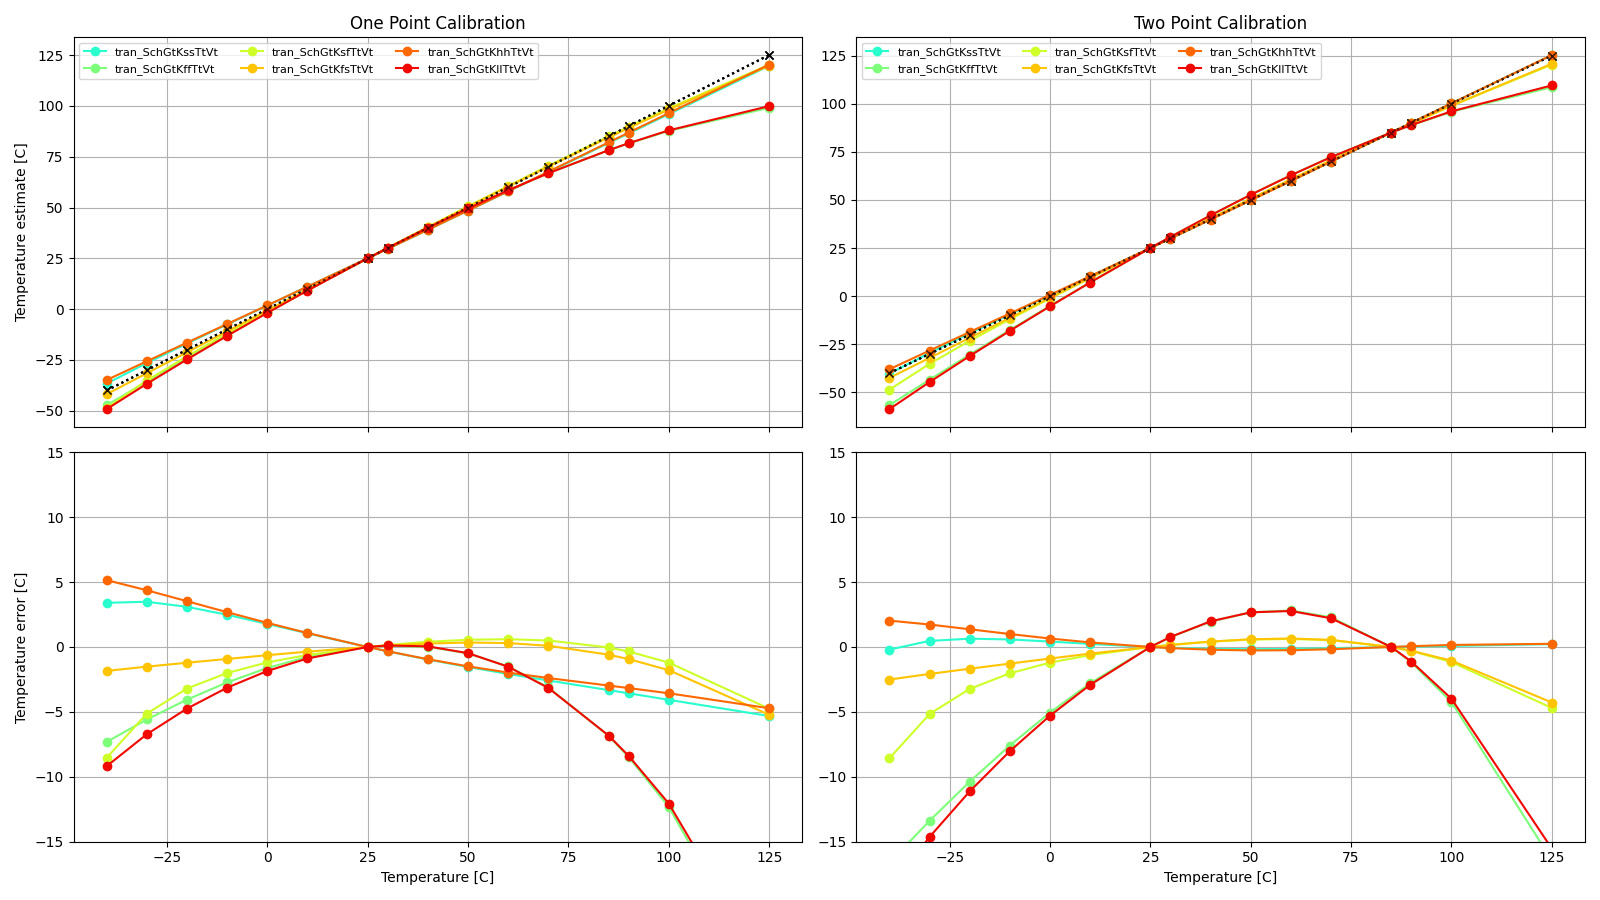
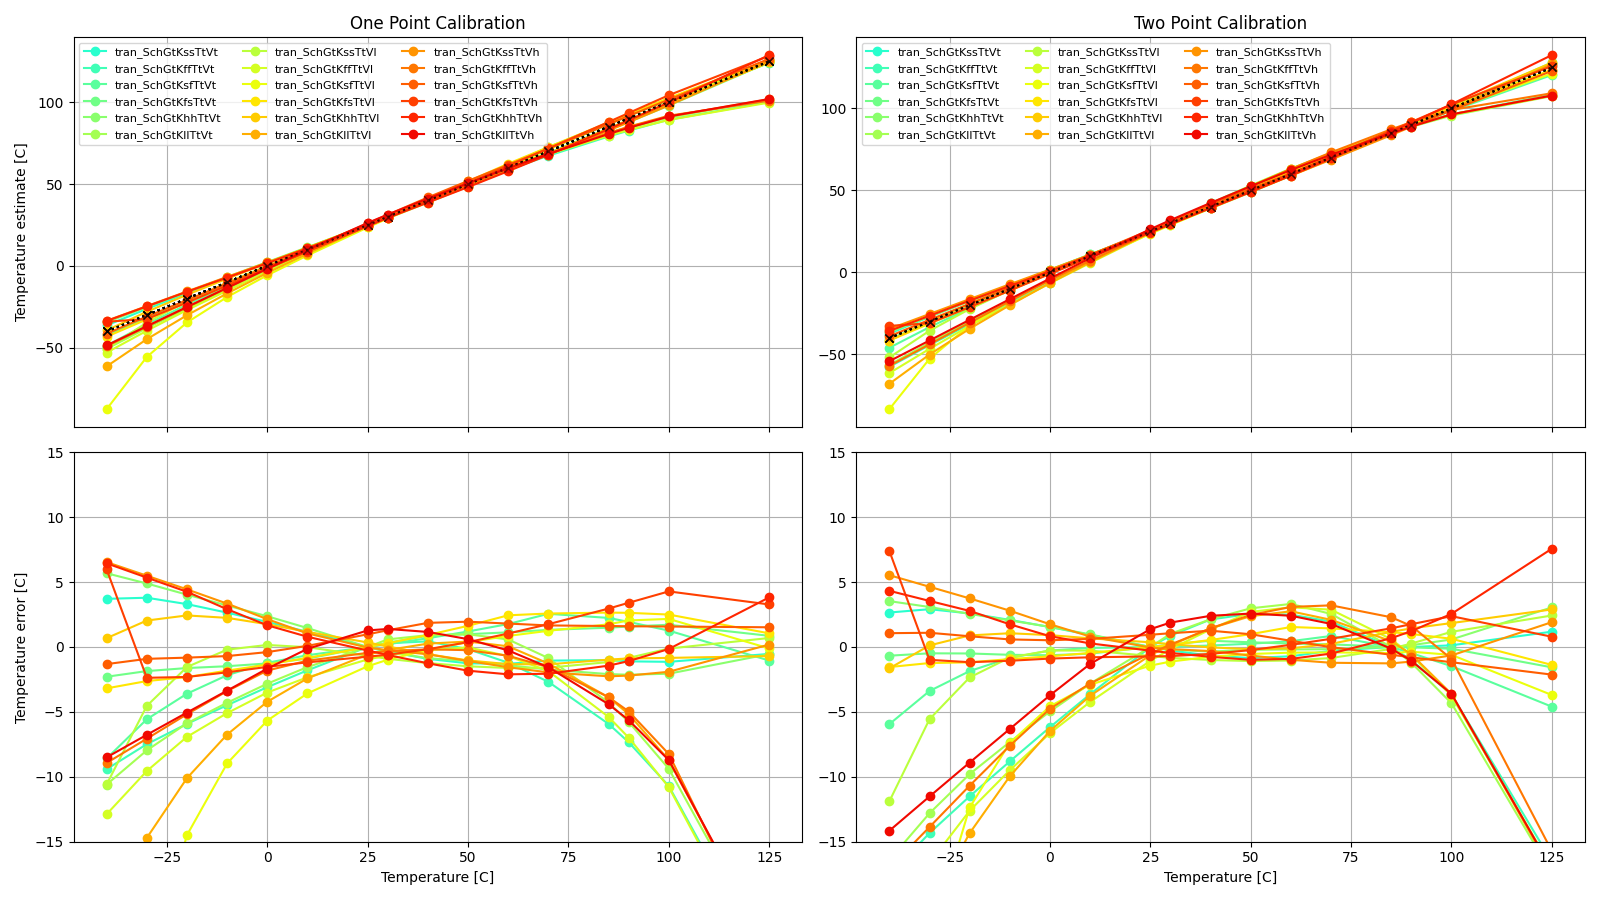
Working NMOS OTA

diff --git a/sim/LELOTEMP_BIAS_IBP/README.md b/sim/LELOTEMP_BIAS_IBP/README.md
@@ -9,37 +9,37 @@ Check stability
 |**Name**|**Parameter**|**Description**| |**Min**|**Typ**|**Max**| Unit|
 |:---|:---|:---|---:|:---:|:---:|:---:| ---:|
 |**Gain Margin**|**gm\_db** || **Spec**  | **-50.00** | **-10.00** | **-10.00** | **dB** |
-| | | |<a href='results/lstb_Sch_typical.html'>Sch_typ</a>| | -12.00 |  | |
-| | | |<a href='results/lstb_Sch_etc.html'>Sch_etc</a>|-16.58 | -12.55 | <span style='color:red'>**-9.17**</span> | |
-| | | |<a href='results/lstb_Sch_mc.html'>Sch_3std</a>|-13.59 | -12.28 | -10.97 | |
+| | | |<a href='results/lstb_Sch_typical.html'>Sch_typ</a>| | -14.68 |  | |
+| | | |<a href='results/lstb_Sch_etc.html'>Sch_etc</a>|-18.71 | -15.22 | -12.72 | |
+| | | |<a href='results/lstb_Sch_mc.html'>Sch_3std</a>|-16.37 | -14.75 | -13.12 | |
 |**DC gain**|**lf\_gain** || **Spec**  | **50.00** | **40.00** | **80.00** | **dB** |
-| | | |<a href='results/lstb_Sch_typical.html'>Sch_typ</a>| | 69.75 |  | |
-| | | |<a href='results/lstb_Sch_etc.html'>Sch_etc</a>|<span style='color:red'>**43.72**</span> | 67.99 | 71.06 | |
-| | | |<a href='results/lstb_Sch_mc.html'>Sch_3std</a>|66.85 | 69.38 | 71.91 | |
+| | | |<a href='results/lstb_Sch_typical.html'>Sch_typ</a>| | 68.80 |  | |
+| | | |<a href='results/lstb_Sch_etc.html'>Sch_etc</a>|66.53 | 67.45 | 69.92 | |
+| | | |<a href='results/lstb_Sch_mc.html'>Sch_3std</a>|66.79 | 68.95 | 71.12 | |
 |**Phase Margin**|**pm\_deg** || **Spec**  | **45.00** | **60.00** | **90.00** |  |
-| | | |<a href='results/lstb_Sch_typical.html'>Sch_typ</a>| | 50.81 |  | |
-| | | |<a href='results/lstb_Sch_etc.html'>Sch_etc</a>|<span style='color:red'>**37.40**</span> | 53.43 | 67.56 | |
-| | | |<a href='results/lstb_Sch_mc.html'>Sch_3std</a>|46.66 | 52.00 | 57.33 | |
+| | | |<a href='results/lstb_Sch_typical.html'>Sch_typ</a>| | 61.29 |  | |
+| | | |<a href='results/lstb_Sch_etc.html'>Sch_etc</a>|53.27 | 63.05 | 72.38 | |
+| | | |<a href='results/lstb_Sch_mc.html'>Sch_3std</a>|56.25 | 61.38 | 66.50 | |
 |**Unity Gain Frequency**|**ug** || **Spec**  | **3.00** | **15.00** | **100.00** | **MHz** |
-| | | |<a href='results/lstb_Sch_typical.html'>Sch_typ</a>| | 8.84 |  | |
-| | | |<a href='results/lstb_Sch_etc.html'>Sch_etc</a>|3.99 | 7.86 | 14.09 | |
-| | | |<a href='results/lstb_Sch_mc.html'>Sch_3std</a>|6.84 | 8.52 | 10.19 | |
+| | | |<a href='results/lstb_Sch_typical.html'>Sch_typ</a>| | 7.70 |  | |
+| | | |<a href='results/lstb_Sch_etc.html'>Sch_etc</a>|3.40 | 6.95 | 12.84 | |
+| | | |<a href='results/lstb_Sch_mc.html'>Sch_3std</a>|5.76 | 7.75 | 9.75 | |
 |**PMOS gate**|**v(lpo)** || **Spec**  | **0.45** | **0.70** | **1.10** | **V** |
 | | | |<a href='results/lstb_Sch_typical.html'>Sch_typ</a>| | 0.76 |  | |
 | | | |<a href='results/lstb_Sch_etc.html'>Sch_etc</a>|0.52 | 0.78 | 1.05 | |
-| | | |<a href='results/lstb_Sch_mc.html'>Sch_3std</a>|0.75 | 0.76 | 0.77 | |
+| | | |<a href='results/lstb_Sch_mc.html'>Sch_3std</a>|0.74 | 0.76 | 0.77 | |
 |**Delta diode voltage**|**vd** || **Spec**  | **80.00** | **106.00** | **150.00** | **mV** |
-| | | |<a href='results/lstb_Sch_typical.html'>Sch_typ</a>| | 109.29 |  | |
-| | | |<a href='results/lstb_Sch_etc.html'>Sch_etc</a>|84.63 | 114.99 | 145.78 | |
-| | | |<a href='results/lstb_Sch_mc.html'>Sch_3std</a>|104.92 | 108.99 | 113.05 | |
+| | | |<a href='results/lstb_Sch_typical.html'>Sch_typ</a>| | 109.26 |  | |
+| | | |<a href='results/lstb_Sch_etc.html'>Sch_etc</a>|84.63 | 115.10 | 145.74 | |
+| | | |<a href='results/lstb_Sch_mc.html'>Sch_3std</a>|105.00 | 108.97 | 112.94 | |
 |**Output current**|**i(v1)** || **Spec**  | **0.50** | **1.00** | **2.00** | **uA** |
 | | | |<a href='results/lstb_Sch_typical.html'>Sch_typ</a>| | 1.23 |  | |
-| | | |<a href='results/lstb_Sch_etc.html'>Sch_etc</a>|0.81 | 1.12 | 1.73 | |
-| | | |<a href='results/lstb_Sch_mc.html'>Sch_3std</a>|0.85 | 1.20 | 1.54 | |
+| | | |<a href='results/lstb_Sch_etc.html'>Sch_etc</a>|0.76 | 1.13 | 1.70 | |
+| | | |<a href='results/lstb_Sch_mc.html'>Sch_3std</a>|0.64 | 1.17 | 1.70 | |
 |**VD Error**|**vdiff** || **Spec**  | **-6.00** | **0.00** | **6.00** | **mV** |
-| | | |<a href='results/lstb_Sch_typical.html'>Sch_typ</a>| | -0.04 |  | |
-| | | |<a href='results/lstb_Sch_etc.html'>Sch_etc</a>|-0.37 | -0.08 | 0.10 | |
-| | | |<a href='results/lstb_Sch_mc.html'>Sch_3std</a>|<span style='color:red'>**-14.15**</span> | 1.91 | <span style='color:red'>**17.97**</span> | |
+| | | |<a href='results/lstb_Sch_typical.html'>Sch_typ</a>| | -0.09 |  | |
+| | | |<a href='results/lstb_Sch_etc.html'>Sch_etc</a>|-0.33 | -0.10 | 0.93 | |
+| | | |<a href='results/lstb_Sch_mc.html'>Sch_3std</a>|<span style='color:red'>**-19.88**</span> | -0.88 | <span style='color:red'>**18.13**</span> | |
 
 #### Transient (tran)
 
@@ -50,29 +50,29 @@ Check settling time and current variation
 |**Name**|**Parameter**|**Description**| |**Min**|**Typ**|**Max**| Unit|
 |:---|:---|:---|---:|:---:|:---:|:---:| ---:|
 ||**t\_settle** || **Spec**  | **0.01** | **0.05** | **2.00** | **us** |
-| | | |<a href='results/tran_Sch_typical.html'>Sch_typ</a>| | <span style='color:red'>**2.12**</span> |  | |
-| | | |<a href='results/tran_Sch_etc.html'>Sch_etc</a>|0.55 | <span style='color:red'>**2.91**</span> | <span style='color:red'>**8.98**</span> | |
-| | | |<a href='results/tran_Sch_mc.html'>Sch_3std</a>|1.73 | <span style='color:red'>**2.15**</span> | <span style='color:red'>**2.56**</span> | |
+| | | |<a href='results/tran_Sch_typical.html'>Sch_typ</a>| | 0.70 |  | |
+| | | |<a href='results/tran_Sch_etc.html'>Sch_etc</a>|0.63 | 0.91 | <span style='color:red'>**9.00**</span> | |
+| | | |<a href='results/tran_Sch_mc.html'>Sch_3std</a>|0.57 | 0.76 | 0.96 | |
 ||**i0** || **Spec**  | **0.500** | **1.000** | **2.000** | **uA** |
 | | | |<a href='results/tran_Sch_typical.html'>Sch_typ</a>| | 1.160 |  | |
-| | | |<a href='results/tran_Sch_etc.html'>Sch_etc</a>|<span style='color:red'>**0.000**</span> | 1.169 | 1.667 | |
-| | | |<a href='results/tran_Sch_mc.html'>Sch_3std</a>|0.789 | 1.129 | 1.468 | |
+| | | |<a href='results/tran_Sch_etc.html'>Sch_etc</a>|0.813 | 1.170 | 1.668 | |
+| | | |<a href='results/tran_Sch_mc.html'>Sch_3std</a>|0.808 | 1.165 | 1.522 | |
 ||**i1** || **Spec**  | **0.500** | **1.000** | **2.000** | **uA** |
-| | | |<a href='results/tran_Sch_typical.html'>Sch_typ</a>| | 1.159 |  | |
-| | | |<a href='results/tran_Sch_etc.html'>Sch_etc</a>|<span style='color:red'>**0.000**</span> | 1.169 | 1.667 | |
-| | | |<a href='results/tran_Sch_mc.html'>Sch_3std</a>|0.829 | 1.122 | 1.414 | |
+| | | |<a href='results/tran_Sch_typical.html'>Sch_typ</a>| | 1.160 |  | |
+| | | |<a href='results/tran_Sch_etc.html'>Sch_etc</a>|0.812 | 1.169 | 1.667 | |
+| | | |<a href='results/tran_Sch_mc.html'>Sch_3std</a>|0.794 | 1.162 | 1.530 | |
 ||**i2** || **Spec**  | **0.500** | **1.000** | **2.000** | **uA** |
 | | | |<a href='results/tran_Sch_typical.html'>Sch_typ</a>| | 1.159 |  | |
-| | | |<a href='results/tran_Sch_etc.html'>Sch_etc</a>|<span style='color:red'>**0.000**</span> | 1.168 | 1.666 | |
-| | | |<a href='results/tran_Sch_mc.html'>Sch_3std</a>|0.827 | 1.124 | 1.421 | |
+| | | |<a href='results/tran_Sch_etc.html'>Sch_etc</a>|0.812 | 1.168 | 1.666 | |
+| | | |<a href='results/tran_Sch_mc.html'>Sch_3std</a>|0.895 | 1.168 | 1.440 | |
 ||**i3** || **Spec**  | **0.500** | **1.000** | **2.000** | **uA** |
 | | | |<a href='results/tran_Sch_typical.html'>Sch_typ</a>| | 1.159 |  | |
-| | | |<a href='results/tran_Sch_etc.html'>Sch_etc</a>|<span style='color:red'>**0.000**</span> | 1.168 | 1.666 | |
-| | | |<a href='results/tran_Sch_mc.html'>Sch_3std</a>|0.894 | 1.136 | 1.378 | |
+| | | |<a href='results/tran_Sch_etc.html'>Sch_etc</a>|0.812 | 1.167 | 1.664 | |
+| | | |<a href='results/tran_Sch_mc.html'>Sch_3std</a>|0.845 | 1.152 | 1.459 | |
 ||**idd** || **Spec**  | **5.000** | **30.000** | **60.000** | **uA** |
-| | | |<a href='results/tran_Sch_typical.html'>Sch_typ</a>| | 37.527 |  | |
-| | | |<a href='results/tran_Sch_etc.html'>Sch_etc</a>|<span style='color:red'>**0.474**</span> | 35.672 | 49.636 | |
-| | | |<a href='results/tran_Sch_mc.html'>Sch_3std</a>|30.925 | 36.712 | 42.498 | |
+| | | |<a href='results/tran_Sch_typical.html'>Sch_typ</a>| | 39.668 |  | |
+| | | |<a href='results/tran_Sch_etc.html'>Sch_etc</a>|30.705 | 38.660 | 49.364 | |
+| | | |<a href='results/tran_Sch_mc.html'>Sch_3std</a>|33.285 | 39.945 | 46.605 | |
 
 #### DC (dc)
 
@@ -83,23 +83,23 @@ Check temperature performance
 |**Name**|**Parameter**|**Description**| |**Min**|**Typ**|**Max**| Unit|
 |:---|:---|:---|---:|:---:|:---:|:---:| ---:|
 ||**ibp\_err\_max** || **Spec**  | **-30.00** | **0.00** | **20.00** | **nA** |
-| | | |<a href='results/dc_Sch_typical.html'>Sch_typ</a>| | 8.34 |  | |
-| | | |<a href='results/dc_Sch_etc.html'>Sch_etc</a>|7.43 | 8.31 | 9.50 | |
-| | | |<a href='results/dc_Sch_mc.html'>Sch_3std</a>|4.21 | 8.50 | 12.79 | |
+| | | |<a href='results/dc_Sch_typical.html'>Sch_typ</a>| | 8.42 |  | |
+| | | |<a href='results/dc_Sch_etc.html'>Sch_etc</a>|7.48 | 8.43 | 9.82 | |
+| | | |<a href='results/dc_Sch_mc.html'>Sch_3std</a>|4.17 | 8.42 | 12.67 | |
 ||**ibp\_err\_min** || **Spec**  | **-30.00** | **0.00** | **20.00** | **nA** |
-| | | |<a href='results/dc_Sch_typical.html'>Sch_typ</a>| | -18.35 |  | |
-| | | |<a href='results/dc_Sch_etc.html'>Sch_etc</a>|-20.95 | -18.33 | -16.02 | |
-| | | |<a href='results/dc_Sch_mc.html'>Sch_3std</a>|-29.22 | -18.48 | -7.74 | |
+| | | |<a href='results/dc_Sch_typical.html'>Sch_typ</a>| | -18.48 |  | |
+| | | |<a href='results/dc_Sch_etc.html'>Sch_etc</a>|-21.09 | -18.40 | -16.43 | |
+| | | |<a href='results/dc_Sch_mc.html'>Sch_3std</a>|<span style='color:red'>**-30.16**</span> | -18.40 | -6.64 | |
 ||**imax** || **Spec**  | **0.50** | **0.00** | **2.00** | **uA** |
 | | | |<a href='results/dc_Sch_typical.html'>Sch_typ</a>| | 1.46 |  | |
 | | | |<a href='results/dc_Sch_etc.html'>Sch_etc</a>|1.29 | 1.46 | 1.67 | |
-| | | |<a href='results/dc_Sch_mc.html'>Sch_3std</a>|1.09 | 1.43 | 1.77 | |
+| | | |<a href='results/dc_Sch_mc.html'>Sch_3std</a>|1.12 | 1.46 | 1.81 | |
 ||**imin** || **Spec**  | **0.50** | **0.00** | **2.00** | **uA** |
-| | | |<a href='results/dc_Sch_typical.html'>Sch_typ</a>| | 0.91 |  | |
+| | | |<a href='results/dc_Sch_typical.html'>Sch_typ</a>| | 0.92 |  | |
 | | | |<a href='results/dc_Sch_etc.html'>Sch_etc</a>|0.81 | 0.92 | 1.05 | |
-| | | |<a href='results/dc_Sch_mc.html'>Sch_3std</a>|0.55 | 0.88 | 1.21 | |
+| | | |<a href='results/dc_Sch_mc.html'>Sch_3std</a>|0.56 | 0.92 | 1.28 | |
 ||**a\_per\_c** || **Spec**  | **1.00** | **3.00** | **5.00** | **nA** |
 | | | |<a href='results/dc_Sch_typical.html'>Sch_typ</a>| | 3.27 |  | |
-| | | |<a href='results/dc_Sch_etc.html'>Sch_etc</a>|2.90 | 3.28 | 3.76 | |
-| | | |<a href='results/dc_Sch_mc.html'>Sch_3std</a>|2.82 | 3.30 | 3.78 | |
+| | | |<a href='results/dc_Sch_etc.html'>Sch_etc</a>|2.90 | 3.27 | 3.75 | |
+| | | |<a href='results/dc_Sch_mc.html'>Sch_3std</a>|2.78 | 3.27 | 3.77 | |
 

diff --git a/sim/LELO_TEMP/README.md b/sim/LELO_TEMP/README.md
@@ -9,51 +9,51 @@ Check temperature accuracy
 |**Name**|**Parameter**|**Description**| |**Min**|**Typ**|**Max**| Unit|
 |:---|:---|:---|---:|:---:|:---:|:---:| ---:|
 ||**idd\_25** || **Spec**  | **5.000** | **30.000** | **100.000** | **uA** |
-| | | |<a href='results/tran_Sch_typical.html'>Sch_typ</a>| | 63.068 |  | |
-| | | |<a href='results/tran_Sch_etc.html'>Sch_etc</a>|40.762 | 61.126 | 81.966 | |
-| | | |<a href='results/tran_Sch_mc.html'>Sch_3std</a>|56.690 | 61.960 | 67.231 | |
+| | | |<a href='results/tran_Sch_typical.html'>Sch_typ</a>| | 79.810 |  | |
+| | | |<a href='results/tran_Sch_etc.html'>Sch_etc</a>|58.411 | 78.724 | <span style='color:orange'>**100.959**</span> | |
+| | | |<a href='results/tran_Sch_mc.html'>Sch_3std</a>|71.898 | 82.466 | 93.034 | |
 ||**iddq\_25** || **Spec**  | **0.000** | **10.000** | **50.000** | **nA** |
-| | | |<a href='results/tran_Sch_typical.html'>Sch_typ</a>| | 2.305 |  | |
-| | | |<a href='results/tran_Sch_etc.html'>Sch_etc</a>|5.076 | 6.183 | 35.859 | |
-| | | |<a href='results/tran_Sch_mc.html'>Sch_3std</a>|2.094 | 2.373 | 2.651 | |
+| | | |<a href='results/tran_Sch_typical.html'>Sch_typ</a>| | 2.486 |  | |
+| | | |<a href='results/tran_Sch_etc.html'>Sch_etc</a>|1.890 | 2.492 | 32.443 | |
+| | | |<a href='results/tran_Sch_mc.html'>Sch_3std</a>|2.127 | 2.569 | 3.010 | |
 ||**ind\_1p\_max** |Industrial 1 point calibration| **Spec**  | **-15.000** | **0.000** | **15.000** | **C** |
-| | | |<a href='results/tran_Sch_typical.html'>Sch_typ</a>| | 0.356 |  | |
-| | | |<a href='results/tran_Sch_etc.html'>Sch_etc</a>|-0.360 | 0.150 | 10.644 | |
-| | | |<a href='results/tran_Sch_mc.html'>Sch_3std</a>|-2.467 | 1.194 | 4.856 | |
+| | | |<a href='results/tran_Sch_typical.html'>Sch_typ</a>| | 2.114 |  | |
+| | | |<a href='results/tran_Sch_etc.html'>Sch_etc</a>|-0.182 | 2.054 | 6.536 | |
+| | | |<a href='results/tran_Sch_mc.html'>Sch_3std</a>|-0.506 | 1.710 | 3.926 | |
 ||**ind\_1p\_min** |Industrial 1 point calibration| **Spec**  | **-15.000** | **0.000** | **15.000** | **C** |
-| | | |<a href='results/tran_Sch_typical.html'>Sch_typ</a>| | -5.237 |  | |
-| | | |<a href='results/tran_Sch_etc.html'>Sch_etc</a>|<span style='color:red'>**-34.626**</span> | -5.970 | -3.771 | |
-| | | |<a href='results/tran_Sch_mc.html'>Sch_3std</a>|-11.459 | -6.332 | -1.204 | |
+| | | |<a href='results/tran_Sch_typical.html'>Sch_typ</a>| | -3.387 |  | |
+| | | |<a href='results/tran_Sch_etc.html'>Sch_etc</a>|<span style='color:red'>**-47.428**</span> | -5.887 | -1.298 | |
+| | | |<a href='results/tran_Sch_mc.html'>Sch_3std</a>|<span style='color:red'>**-15.957**</span> | -5.145 | 5.666 | |
 ||**ind\_2p\_max** |Industrial 2 point calibration| **Spec**  | **-10.000** | **0.000** | **10.000** | **C** |
-| | | |<a href='results/tran_Sch_typical.html'>Sch_typ</a>| | 0.623 |  | |
-| | | |<a href='results/tran_Sch_etc.html'>Sch_etc</a>|-0.068 | 2.135 | 6.885 | |
-| | | |<a href='results/tran_Sch_mc.html'>Sch_3std</a>|0.017 | 0.602 | 1.187 | |
+| | | |<a href='results/tran_Sch_typical.html'>Sch_typ</a>| | 1.164 |  | |
+| | | |<a href='results/tran_Sch_etc.html'>Sch_etc</a>|-0.365 | 2.818 | 7.570 | |
+| | | |<a href='results/tran_Sch_mc.html'>Sch_3std</a>|-1.147 | 1.421 | 3.989 | |
 ||**ind\_2p\_min** |Industrial 2 point calibration| **Spec**  | **-10.000** | **0.000** | **10.000** | **C** |
-| | | |<a href='results/tran_Sch_typical.html'>Sch_typ</a>| | -4.471 |  | |
-| | | |<a href='results/tran_Sch_etc.html'>Sch_etc</a>|<span style='color:red'>**-35.371**</span> | -3.703 | -0.152 | |
-| | | |<a href='results/tran_Sch_mc.html'>Sch_3std</a>|-7.355 | -4.259 | -1.163 | |
+| | | |<a href='results/tran_Sch_typical.html'>Sch_typ</a>| | -2.710 |  | |
+| | | |<a href='results/tran_Sch_etc.html'>Sch_etc</a>|<span style='color:red'>**-43.391**</span> | -4.036 | -0.355 | |
+| | | |<a href='results/tran_Sch_mc.html'>Sch_3std</a>|<span style='color:red'>**-11.692**</span> | -3.777 | 4.139 | |
 ||**com\_1p\_max** |Commercial 1 point calibration| **Spec**  | **-10.000** | **0.000** | **10.000** | **C** |
-| | | |<a href='results/tran_Sch_typical.html'>Sch_typ</a>| | 0.356 |  | |
-| | | |<a href='results/tran_Sch_etc.html'>Sch_etc</a>|-0.360 | 0.150 | 2.711 | |
-| | | |<a href='results/tran_Sch_mc.html'>Sch_3std</a>|-2.014 | 0.952 | 3.918 | |
+| | | |<a href='results/tran_Sch_typical.html'>Sch_typ</a>| | 2.114 |  | |
+| | | |<a href='results/tran_Sch_etc.html'>Sch_etc</a>|-0.182 | 1.529 | 2.575 | |
+| | | |<a href='results/tran_Sch_mc.html'>Sch_3std</a>|-0.086 | 1.452 | 2.990 | |
 ||**com\_1p\_min** |Commercial 1 point calibration| **Spec**  | **-10.000** | **0.000** | **10.000** | **C** |
-| | | |<a href='results/tran_Sch_typical.html'>Sch_typ</a>| | -0.720 |  | |
-| | | |<a href='results/tran_Sch_etc.html'>Sch_etc</a>|-3.731 | -2.632 | -0.111 | |
-| | | |<a href='results/tran_Sch_mc.html'>Sch_3std</a>|-3.254 | -1.347 | 0.561 | |
+| | | |<a href='results/tran_Sch_typical.html'>Sch_typ</a>| | -0.791 |  | |
+| | | |<a href='results/tran_Sch_etc.html'>Sch_etc</a>|-5.669 | -1.703 | -0.396 | |
+| | | |<a href='results/tran_Sch_mc.html'>Sch_3std</a>|-2.027 | -0.578 | 0.870 | |
 ||**com\_2p\_max** |Commercial 2 point calibration| **Spec**  | **-5.000** | **0.000** | **5.000** | **C** |
-| | | |<a href='results/tran_Sch_typical.html'>Sch_typ</a>| | 0.623 |  | |
-| | | |<a href='results/tran_Sch_etc.html'>Sch_etc</a>|-0.068 | 0.845 | 2.619 | |
-| | | |<a href='results/tran_Sch_mc.html'>Sch_3std</a>|0.017 | 0.602 | 1.187 | |
+| | | |<a href='results/tran_Sch_typical.html'>Sch_typ</a>| | 1.164 |  | |
+| | | |<a href='results/tran_Sch_etc.html'>Sch_etc</a>|-0.417 | 1.535 | 3.313 | |
+| | | |<a href='results/tran_Sch_mc.html'>Sch_3std</a>|-0.857 | 1.203 | 3.262 | |
 ||**com\_2p\_min** |Commercial 2 point calibration| **Spec**  | **-5.000** | **0.000** | **5.000** | **C** |
-| | | |<a href='results/tran_Sch_typical.html'>Sch_typ</a>| | -0.928 |  | |
-| | | |<a href='results/tran_Sch_etc.html'>Sch_etc</a>|<span style='color:red'>**-5.068**</span> | -0.714 | -0.152 | |
-| | | |<a href='results/tran_Sch_mc.html'>Sch_3std</a>|-2.119 | -0.907 | 0.306 | |
+| | | |<a href='results/tran_Sch_typical.html'>Sch_typ</a>| | -0.159 |  | |
+| | | |<a href='results/tran_Sch_etc.html'>Sch_etc</a>|<span style='color:red'>**-6.637**</span> | -1.036 | -0.017 | |
+| | | |<a href='results/tran_Sch_mc.html'>Sch_3std</a>|-2.972 | -0.522 | 1.928 | |
 ||**freq\_min** |Frequency| **Spec**  | **1.500** | **3.000** | **4.800** | **MHz** |
-| | | |<a href='results/tran_Sch_typical.html'>Sch_typ</a>| | 1.833 |  | |
-| | | |<a href='results/tran_Sch_etc.html'>Sch_etc</a>|<span style='color:red'>**1.270**</span> | 1.682 | 2.320 | |
-| | | |<a href='results/tran_Sch_mc.html'>Sch_3std</a>|<span style='color:red'>**1.392**</span> | 1.816 | 2.241 | |
+| | | |<a href='results/tran_Sch_typical.html'>Sch_typ</a>| | 1.826 |  | |
+| | | |<a href='results/tran_Sch_etc.html'>Sch_etc</a>|<span style='color:red'>**1.275**</span> | 1.837 | 2.437 | |
+| | | |<a href='results/tran_Sch_mc.html'>Sch_3std</a>|<span style='color:red'>**1.383**</span> | 1.911 | 2.439 | |
 ||**freq\_max** |Frequency| **Spec**  | **1.500** | **3.000** | **4.800** | **MHz** |
-| | | |<a href='results/tran_Sch_typical.html'>Sch_typ</a>| | 1.833 |  | |
-| | | |<a href='results/tran_Sch_etc.html'>Sch_etc</a>|<span style='color:red'>**1.270**</span> | 1.682 | 2.320 | |
-| | | |<a href='results/tran_Sch_mc.html'>Sch_3std</a>|<span style='color:red'>**1.392**</span> | 1.816 | 2.241 | |
+| | | |<a href='results/tran_Sch_typical.html'>Sch_typ</a>| | 1.826 |  | |
+| | | |<a href='results/tran_Sch_etc.html'>Sch_etc</a>|<span style='color:red'>**1.275**</span> | 1.837 | 2.437 | |
+| | | |<a href='results/tran_Sch_mc.html'>Sch_3std</a>|<span style='color:red'>**1.383**</span> | 1.911 | 2.439 | |
 
